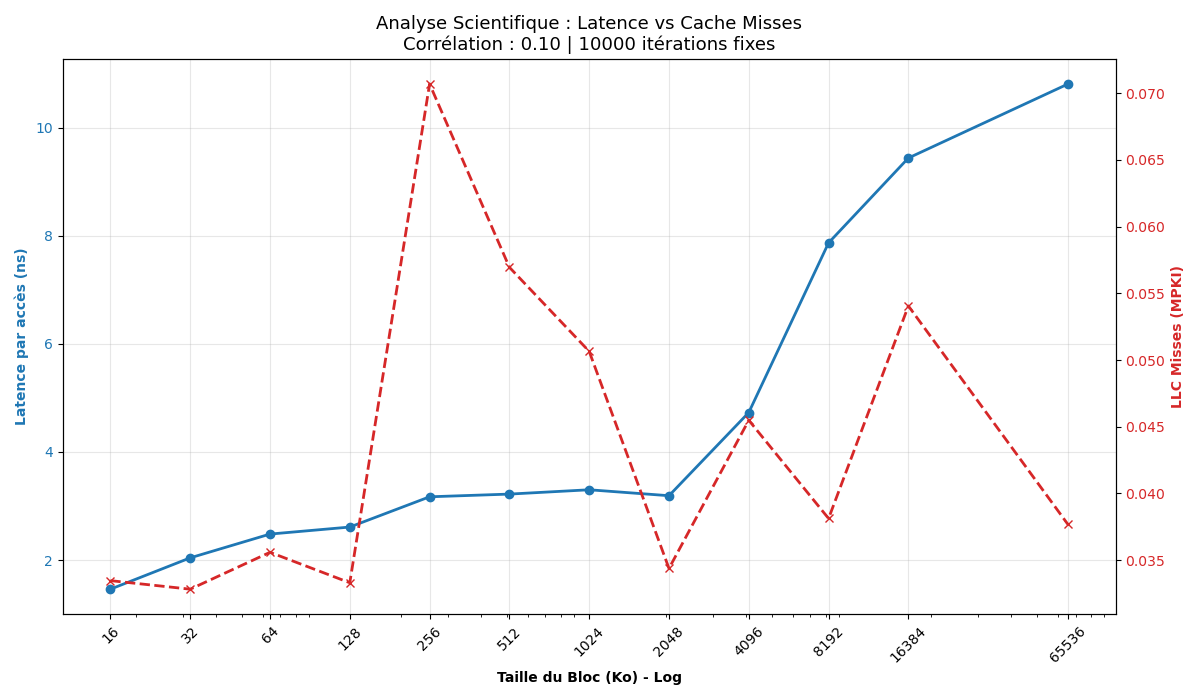
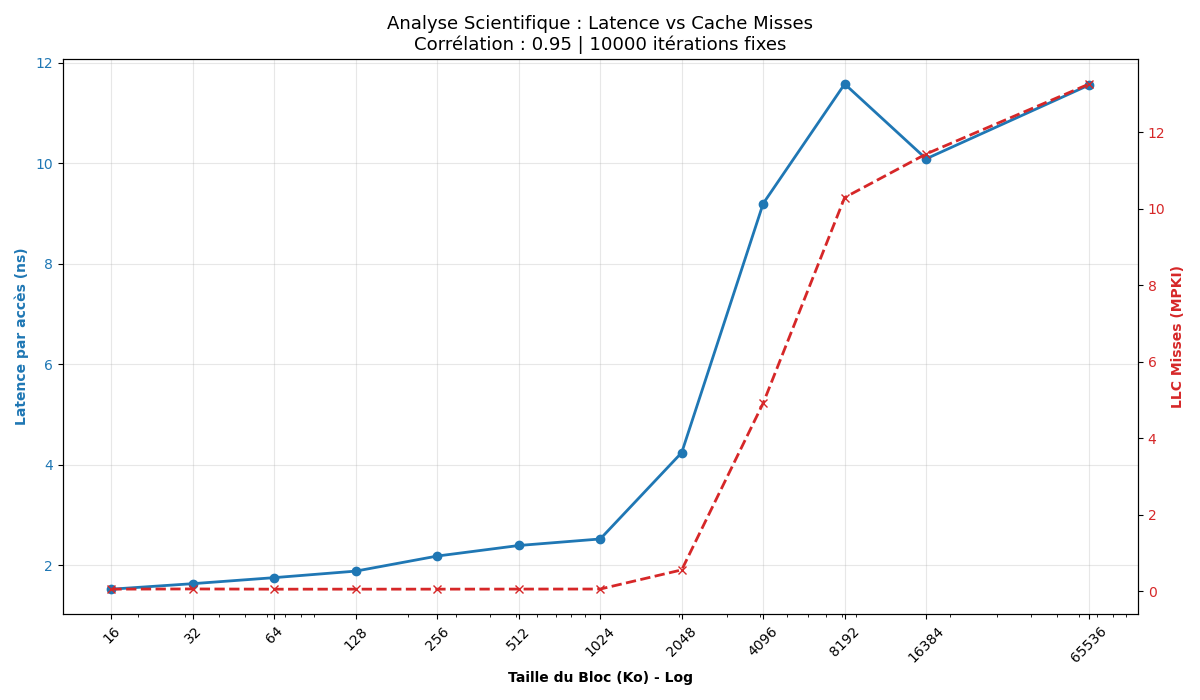
updates

diff --git a/plot_cpu_breakdown.py b/plot_cpu_breakdown.py
@@ -1,0 +1,108 @@
+import pandas as pd
+import matplotlib.pyplot as plt
+import numpy as np
+import os
+
+# Configuration
+csv_path = "results/memory_benchmark_results_full.csv"
+output_dir = "results"
+
+def plot_breakdown_comparison():
+    if not os.path.exists(csv_path):
+        print(f"Erreur : Le fichier {csv_path} est introuvable.")
+        return
+
+    df = pd.read_csv(csv_path)
+
+    # Configuration de la figure (2 lignes, 2 colonnes)
+    fig, axes = plt.subplots(nrows=2, ncols=2, figsize=(16, 10), sharey=True)
+    axes = axes.flatten() # Pour itérer facilement sur les 4 graphiques
+
+    # Ordre d'affichage et titres
+    modes_config = [
+        ("sequential_read", "Lecture Séquentielle "),
+        ("random_read", "Lecture Aléatoire (Latence Pure)"),
+        ("sequential_write", "Écriture Séquentielle"),
+        ("random_write", "Écriture Aléatoire")
+    ]
+
+    # Couleurs standards (Vert=Bien, Rouge=Attente, Bleu=Instruction)
+    colors = ['#2ca02c', '#d62728', '#1f77b4'] 
+    labels_legend = ['Retiring (Calcul)', 'Backend Bound (Attente Mémoire)', 'Frontend Bound (Instructions)']
+
+    for i, (mode, title) in enumerate(modes_config):
+        ax = axes[i]
+        
+        # Filtrage et tri
+        sub_df = df[df['pattern'] == mode].sort_values('size_kb')
+        
+        if sub_df.empty:
+            ax.text(0.5, 0.5, "Pas de données", ha='center')
+            continue
+
+        # --- CALCUL DES POURCENTAGES ---
+        max_ipc = 4.0  # Valeur théorique pour la plupart des CPUs modernes
+
+        # On vérifie si les compteurs stalled sont à 0
+        if sub_df['stalled_backend'].sum() > 0:
+            # Méthode réelle si les compteurs fonctionnent
+            backend = (sub_df['stalled_backend'] / sub_df['cycles']) * 100
+            frontend = (sub_df['stalled_frontend'] / sub_df['cycles']) * 100
+            retiring = (100 - (frontend + backend)).clip(lower=0)
+        else:
+            # MÉTHODE SYNTHÉTIQUE (Basée sur l'IPC)
+            # On calcule la part de travail réel selon l'IPC observé
+            retiring = (sub_df['IPC'] / max_ipc) * 100
+            # On s'assure que le "vert" ne dépasse pas 95% pour laisser place au bruit
+            retiring = retiring.clip(upper=95) 
+            
+            # Tout ce qui n'est pas du calcul est considéré comme de l'attente mémoire
+            backend = 100 - retiring
+            frontend = np.zeros(len(retiring)) # On néglige le frontend
+
+        # Préparation axe X
+        x_labels = [f"{int(s)}K" if s < 1024 else f"{int(s/1024)}M" for s in sub_df['size_kb']]
+        x = np.arange(len(x_labels))
+
+        # --- TRACÉ DES BARRES EMPILÉES ---
+        # Couche 1 : Calcul Utile (Vert)
+        p1 = ax.bar(x, retiring, label=labels_legend[0], color=colors[0], alpha=0.85, width=0.7)
+        # Couche 2 : Attente Mémoire (Rouge) - Empilé sur Retiring
+        p2 = ax.bar(x, backend, bottom=retiring, label=labels_legend[1], color=colors[1], alpha=0.85, width=0.7)
+        # Couche 3 : Attente Frontend (Bleu) - Empilé sur le tout
+        p3 = ax.bar(x, frontend, bottom=retiring+backend, label=labels_legend[2], color=colors[2], alpha=0.85, width=0.7)
+
+        # Esthétique du sous-graphique
+        ax.set_title(title, fontweight='bold', fontsize=12)
+        ax.set_xticks(x)
+        ax.set_xticklabels(x_labels, rotation=45)
+        ax.set_ylim(0, 100)
+        ax.grid(axis='y', linestyle='--', alpha=0.4)
+        
+        # Ajout du % Backend (Rouge) si significatif (>20%) pour la lisibilité
+        for idx, val in enumerate(backend):
+            if val > 20:
+                # Positionnement au milieu de la barre rouge
+                y_pos = retiring.iloc[idx] + (val / 2)
+                ax.text(idx, y_pos, f"{int(val)}%", ha='center', va='center', 
+                        color='white', fontsize=8, fontweight='bold')
+
+    # Titres globaux
+    fig.text(0.5, 0.02, 'Taille du Bloc Mémoire', ha='center', fontweight='bold', fontsize=12)
+    fig.text(0.08, 0.5, 'Répartition des Cycles CPU (%)', va='center', rotation='vertical', fontweight='bold', fontsize=12)
+    fig.suptitle("Analyse Top-Down : Impact de la Mémoire sur l'Efficacité CPU", fontsize=16, fontweight='bold')
+
+    # Légende unique pour toute la figure
+    handles, labels = axes[0].get_legend_handles_labels()
+    # On inverse pour que l'ordre corresponde visuellement (Frontend en haut)
+    fig.legend(handles[::-1], labels[::-1], loc='upper center', bbox_to_anchor=(0.5, 0.95), ncol=3, frameon=False)
+
+    plt.tight_layout(rect=[0.05, 0.05, 1, 0.92]) # Ajustement pour laisser place aux titres
+    
+    save_path = os.path.join(output_dir, "cpu_breakdown_comparison_4modes.png")
+    plt.savefig(save_path)
+    print(f"[OK] Graphique comparatif généré : {save_path}")
+    plt.show()
+
+if __name__ == "__main__":
+    plot_breakdown_comparison()

diff --git a/plot_latency_misses_comparaison.py b/plot_latency_misses_comparaison.py
@@ -1,0 +1,60 @@
+import pandas as pd
+import matplotlib.pyplot as plt
+import numpy as np
+import os
+
+def plot_comparison():
+    df = pd.read_csv("results/memory_benchmark_results_full.csv")
+    output_dir = "results"
+
+    # Configuration de la grille 2x2
+    fig, axes = plt.subplots(2, 2, figsize=(16, 12))
+    axes = axes.flatten()
+
+    modes = [
+        ("sequential_read", "Seq Read", "#1f77b4"),
+        ("random_read", "Rand Read", "#ff7f0e"),
+        ("sequential_write", "Seq Write", "#d62728"),
+        ("random_write", "Rand Write", "#2ca02c")
+    ]
+
+    for i, (mode, label, color) in enumerate(modes):
+        ax1 = axes[i]
+        sub_df = df[df['pattern'] == mode].sort_values('size_kb')
+        
+        x = sub_df['size_kb']
+        latency = sub_df['lat_ns']
+        misses = sub_df['LLC_misses']
+
+        # --- AXE GAUCHE : LATENCE ---
+        ax1.set_xscale('log')
+        ax1.set_yscale('log')
+        ax1.plot(x, latency, color=color, marker='o', linewidth=2.5, label=f'Latence {label}')
+        ax1.set_ylabel('Latence par accès (ns)', color=color, fontweight='bold')
+        ax1.tick_params(axis='y', labelcolor=color)
+        ax1.grid(True, which="both", ls="-", alpha=0.2)
+
+        # --- AXE DROIT : LLC MISSES ---
+        ax2 = ax1.twinx()
+        ax2.set_yscale('log')
+        ax2.plot(x, misses, color='black', linestyle='--', marker='x', alpha=0.5, label='LLC Misses')
+        ax2.set_ylabel('LLC Load Misses', color='black', alpha=0.7)
+        ax2.tick_params(axis='y', labelcolor='black')
+
+        # Annotations des seuils de cache
+        ax1.axvline(x=256, color='grey', linestyle=':', alpha=0.4) # Limite L2
+        ax1.axvline(x=4096, color='red', linestyle=':', alpha=0.4)  # Limite L3 (Bascule RAM)
+
+        ax1.set_title(f"Impact des Misses : {label}", fontweight='bold')
+        if i >= 2: ax1.set_xlabel('Taille du Bloc (Ko)', fontweight='bold')
+
+    plt.suptitle("Analyse de Corrélation : Latence vs Explosion des LLC Misses", fontsize=16, fontweight='bold')
+    plt.tight_layout(rect=[0, 0.03, 1, 0.95])
+    
+    save_path = os.path.join(output_dir, "latency_misses_comparison_4modes.png")
+    plt.savefig(save_path)
+    print(f"[OK] Graphique comparatif généré : {save_path}")
+    plt.show()
+
+if __name__ == "__main__":
+    plot_comparison()

diff --git a/script.py b/script.py
@@ -49,7 +49,7 @@ def run_perf(mode, size_val, unit="kb", stride_val=None):
 
     cmd = [
         "perf", "stat",
-        "-e", "cycles,instructions,L1-dcache-load-misses,LLC-load-misses,dTLB-load-misses",
+        "-e", "cycles,instructions,L1-dcache-load-misses,LLC-load-misses,dTLB-load-misses,stalled-cycles-frontend,stalled-cycles-backend",
         "-x", ";",
         "python3", "mem_stress2.py",
         "--mode", mode,
@@ -84,7 +84,7 @@ def run_perf(mode, size_val, unit="kb", stride_val=None):
             ops = float(line.split("ops/s:")[1].strip())
 
     # -------- EXTRACTION PERF (Stderr) --------
-    metrics = {"cycles": 0, "instructions": 0, "L1_misses": 0, "LLC_misses": 0, "TLB_misses": 0}
+    metrics = {"cycles": 0, "instructions": 0, "L1_misses": 0, "LLC_misses": 0, "TLB_misses": 0, "stalled_frontend": 0, "stalled_backend": 0}
     for line in proc.stderr.splitlines():
         parts = line.strip().split(";")
         if len(parts) < 3: continue
@@ -110,7 +110,10 @@ def run_perf(mode, size_val, unit="kb", stride_val=None):
         "IPC": ipc,
         "L1_misses": metrics["L1_misses"],
         "LLC_misses": metrics["LLC_misses"],
-        "TLB_misses": metrics["TLB_misses"]
+        "TLB_misses": metrics["TLB_misses"],
+        "stalled_frontend": metrics["stalled_frontend"], 
+        "stalled_backend": metrics["stalled_backend"],   
+        "cycles": metrics["cycles"]                     
     }
 
 # ------------------ RUN & SAVE ------------------

diff --git a/run_macro_analysis.py b/run_macro_analysis.py
@@ -72,9 +72,17 @@ def run_comparison():
 
     # --- Tracé ---
     plt.figure(figsize=(12, 8))
+
+    offsets = {
+        'Seq Read':   0.75,  # Décalé à Gauche (-15%)
+        'Seq Write':  0.90,
+        'Rand Read':  1.10,  # Au Centre
+        'Rand Write': 1.25   # Décalé à Droite (+15%)
+    }
+
     for label, d in data.items():
         plt.errorbar(
-            d['x'], d['y'], yerr=[d['y_err_low'], d['y_err_high']], 
+            shifted_x = [val * offsets[label] for val in d['x']], d['y'], yerr=[d['y_err_low'], d['y_err_high']], 
             label=label, color=d['c'], fmt='o', linewidth=2, capsize=4
         )
 
@@ -87,7 +95,7 @@ def run_comparison():
     plt.grid(True, which="both", ls="-", alpha=0.5)
     plt.legend()
 
-    plt.savefig(os.path.join(output_dir, "latence_d'acces_au_tableau_entier_et_std.png"))
+    plt.savefig(os.path.join(output_dir, "latence_d'acces_au_tableau_entier.png"))
     plt.show()
 
 if __name__ == "__main__":

diff --git a/run_micro_analysis.py b/run_micro_analysis.py
@@ -91,9 +91,10 @@ def run_comparison():
     for label, d in data.items():
         shifted_x = [val * offsets[label] for val in d['x']]
         asymmetric_error = [d['y_err_low'], d['y_err_high']]
+        std_err = d['std']
 
-        lower_std = [y - s for y, s in zip(d['y'], d['std'])]
-        upper_std = [y + s for y, s in zip(d['y'], d['std'])]
+        #lower_std = [y - s for y, s in zip(d['y'], d['std'])]
+        #upper_std = [y + s for y, s in zip(d['y'], d['std'])]
 
         
         

diff --git a/run_scientific_analysis.py b/run_scientific_analysis.py
@@ -21,9 +21,7 @@ def get_perf_metrics(size_bytes):
         "-e", "LLC-load-misses,instructions,cycles",
         "-x", ";",
         "python3", "mem_stress2.py",
-        "--mode", "random_read"
-        
-        ",
+        "--mode", "random_read",
         "--size-bytes", str(size_bytes),
         "--iters", str(ITERS_RAND), # Utilisation de --iters au lieu de --duration
         "--batch", str(BATCH)
